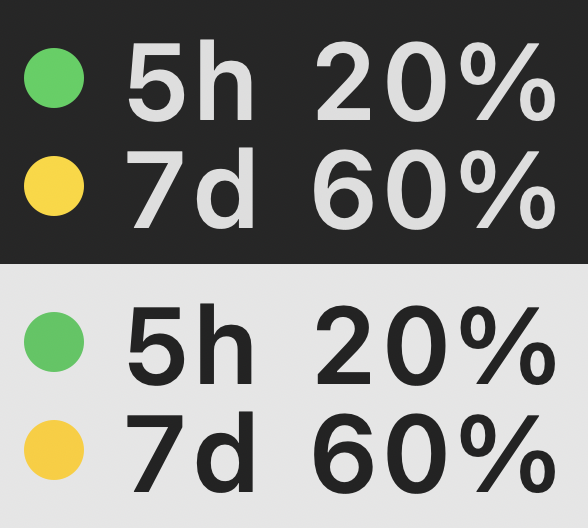
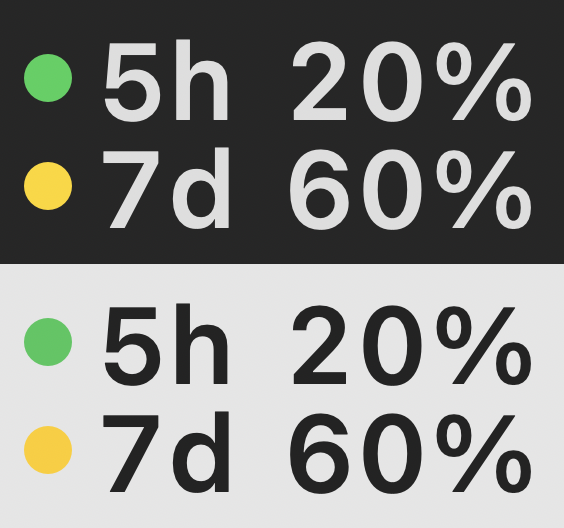
Dots: a smaller dot, and no empty room without one
Alerts kept room for a dot that wasn't there, which read as a gap in the menu bar. The text now starts at the edge until a dot shows; the dot is 4 pt stacked, 5 pt on one line, with a 2 pt gap.

diff --git a/MenuBar/Sources/MenuBarImage.swift b/MenuBar/Sources/MenuBarImage.swift
@@ -421,15 +421,15 @@ enum MenuBarImage {
 
     /// Dots: the text alone, with a small dot before each row in its pace colour, since the text
     /// stays in the text colour. Mono has no dots; Alerts shows one only once ahead or nearly full,
-    /// but keeps its room, so the text doesn't shift. One row is a single 11 pt line, like the
-    /// system's own labels; more rows (or one with the projection under it) stack at 9 pt.
+    /// and takes no room without one. One row is a single 11 pt line, like the system's own
+    /// labels; more rows (or one with the projection under it) stack at 9 pt.
     static func makeDots(rows: [Row], options o: Options = Options()) -> NSImage {
         let textRows = lines(rows.map { cells($0, o, label: o.labels) }, o)
         let small = textRows.count > 1
         let fonts = Columns.fonts(size: small ? 9 : 11, weight: compactWeight(stacked: small))
         let columns = Columns(textRows, leftAligned: [true, false, false, false], fonts: fonts)
-        let dot: CGFloat = small ? 5 : 6
-        let dotSpace = o.palette == .mono ? 0 : dot + 3
+        let dot: CGFloat = small ? 4 : 5
+        let dotSpace = rows.contains { dotColor($0, o) != nil } ? dot + 2 : 0
         let size = NSSize(width: max(dotSpace + columns.width, dot), height: height)
         let rowHeight = small ? Self.rowHeight : height
         return NSImage(size: size, flipped: false) { _ in

diff --git a/README.md b/README.md
@@ -22,7 +22,7 @@ Each one is a setting in the popup (see [Settings](#settings)), shown enlarged o
 
 | Bars | Circle | Dots | Mono | Alerts |
 |---|---|---|---|---|
-| <img src="docs/screenshots/menubar-pro-max.png" width="140" alt="Menu bar item with 5h and 7d bars at 20% (green, under pace) and 60% (yellow, ahead of pace), each with a pace tick, on a dark and a light menu bar"> | <img src="docs/screenshots/menubar-compact.png" width="110" alt="Circle style: two rings, the week outside in yellow and the session inside in green, with 5h 20% and 7d 60% beside them"> | <img src="docs/screenshots/menubar-dots.png" width="98" alt="Dots style: no bars, 5h 20% and 7d 60% as text, each after a dot in its pace colour, green and yellow"> | <img src="docs/screenshots/menubar-mono.png" width="140" alt="Mono palette: the 5h and 7d bars filled in the text colour instead of green and yellow"> | <img src="docs/screenshots/menubar-alerts.png" width="140" alt="Alerts palette: the 5h bar in the text colour while on pace, the 7d bar yellow because it is ahead of pace"> |
+| <img src="docs/screenshots/menubar-pro-max.png" width="140" alt="Menu bar item with 5h and 7d bars at 20% (green, under pace) and 60% (yellow, ahead of pace), each with a pace tick, on a dark and a light menu bar"> | <img src="docs/screenshots/menubar-compact.png" width="110" alt="Circle style: two rings, the week outside in yellow and the session inside in green, with 5h 20% and 7d 60% beside them"> | <img src="docs/screenshots/menubar-dots.png" width="94" alt="Dots style: no bars, 5h 20% and 7d 60% as text, each after a dot in its pace colour, green and yellow"> | <img src="docs/screenshots/menubar-mono.png" width="140" alt="Mono palette: the 5h and 7d bars filled in the text colour instead of green and yellow"> | <img src="docs/screenshots/menubar-alerts.png" width="140" alt="Alerts palette: the 5h bar in the text colour while on pace, the 7d bar yellow because it is ahead of pace"> |
 
 | Projection on | Projection on, Number off | Only the 5 h limit |
 |---|---|---|

diff --git a/docs/DECISIONS.md b/docs/DECISIONS.md
@@ -45,8 +45,9 @@ options that were ruled out, so they aren't tried again.
   (`$1990`): it only takes room, and a budget stays in four digits; the popup keeps it (`$1,990`).
 - **Styles: Bars, Circle and Dots** (2026-11-24). Circle is the earlier Compact, renamed; it's still saved
   as `compact`. Dots is the text without bars, with a dot before each row for the pace colour, since the
-  text stays in the text colour; Mono has no dots, Alerts shows one only once ahead but keeps its room so the
-  text doesn't shift. The palette got its own row (Colours): three styles and three palettes don't fit in one.
+  text stays in the text colour; Mono has no dots, Alerts shows one only once ahead. Without a dot the text
+  starts at the edge: kept room read as a gap in the menu bar, and the width changes with the numbers anyway.
+  The dot is small (4 pt stacked, 5 pt on one line, 2 pt gap) so Colour costs about 6 pt. The palette got its own row (Colours): three styles and three palettes don't fit in one.
 - **A model's own weekly limit (Fable) is a third line in the week graph**, not a chart of its own: same 0-100%
   scale over the same week. Ochre, because violet merges with the blue week line for colour-blind readers.
 
